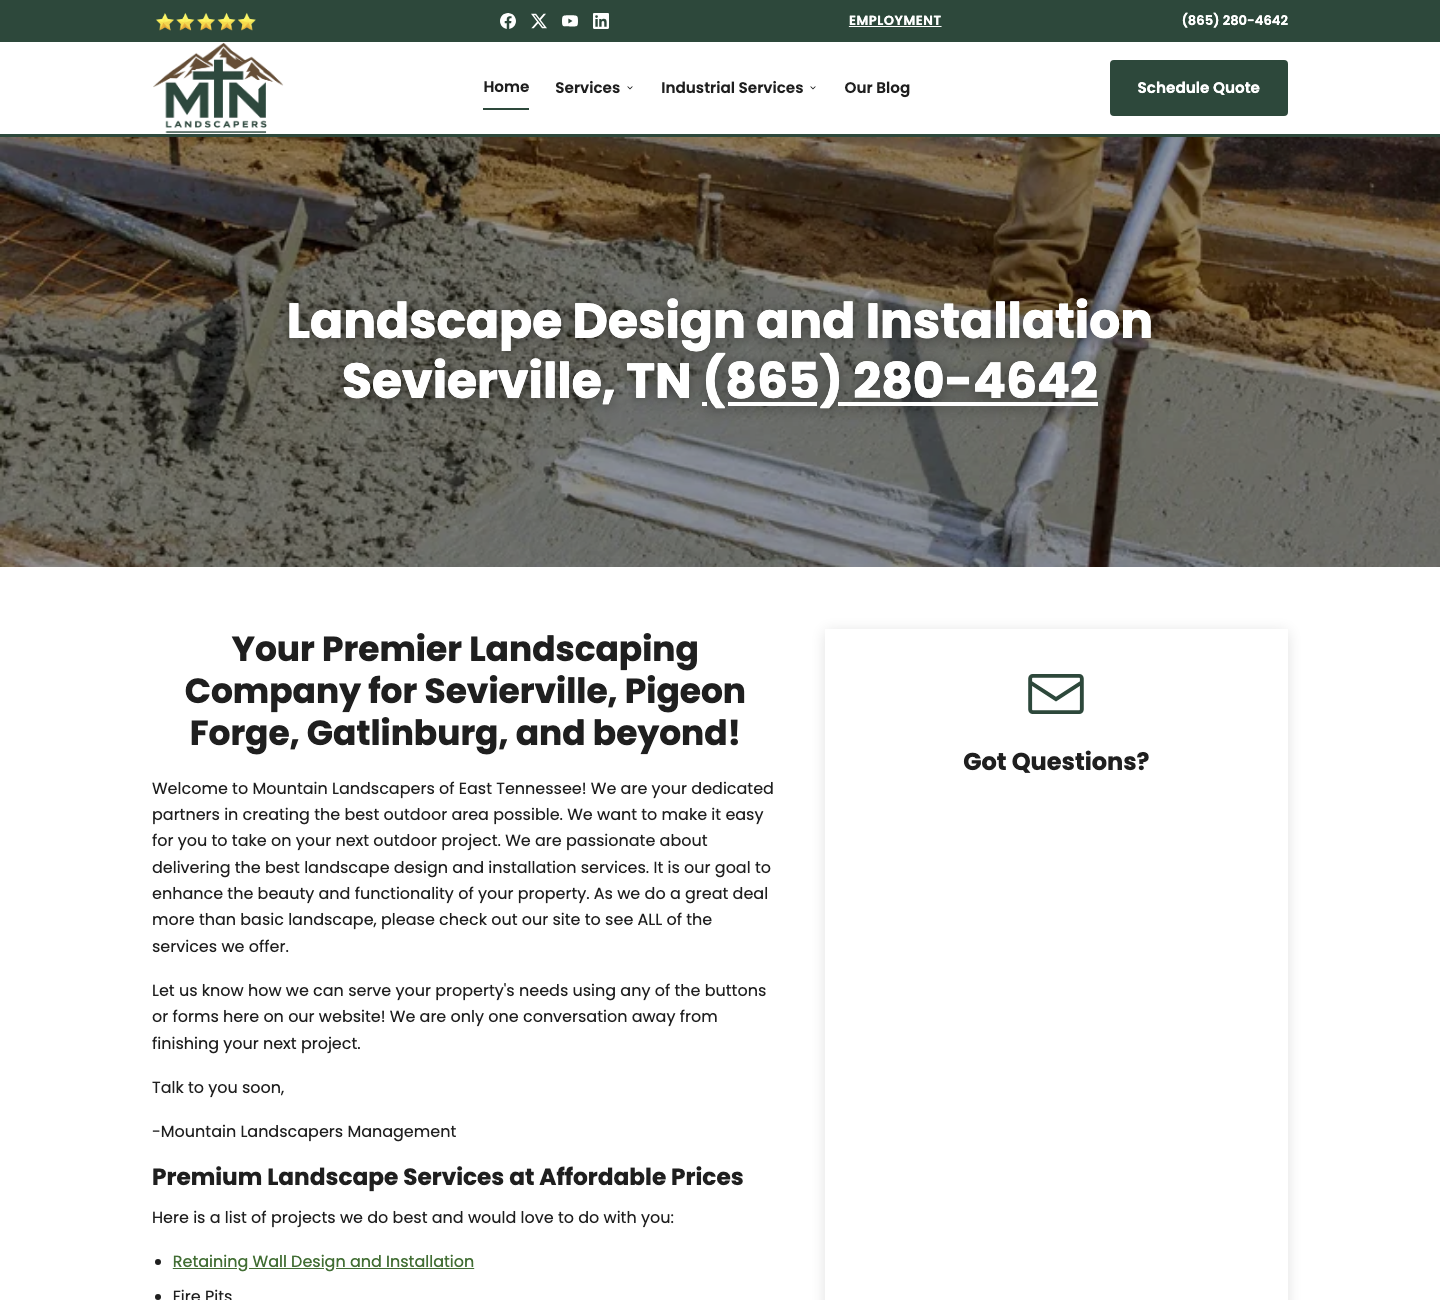
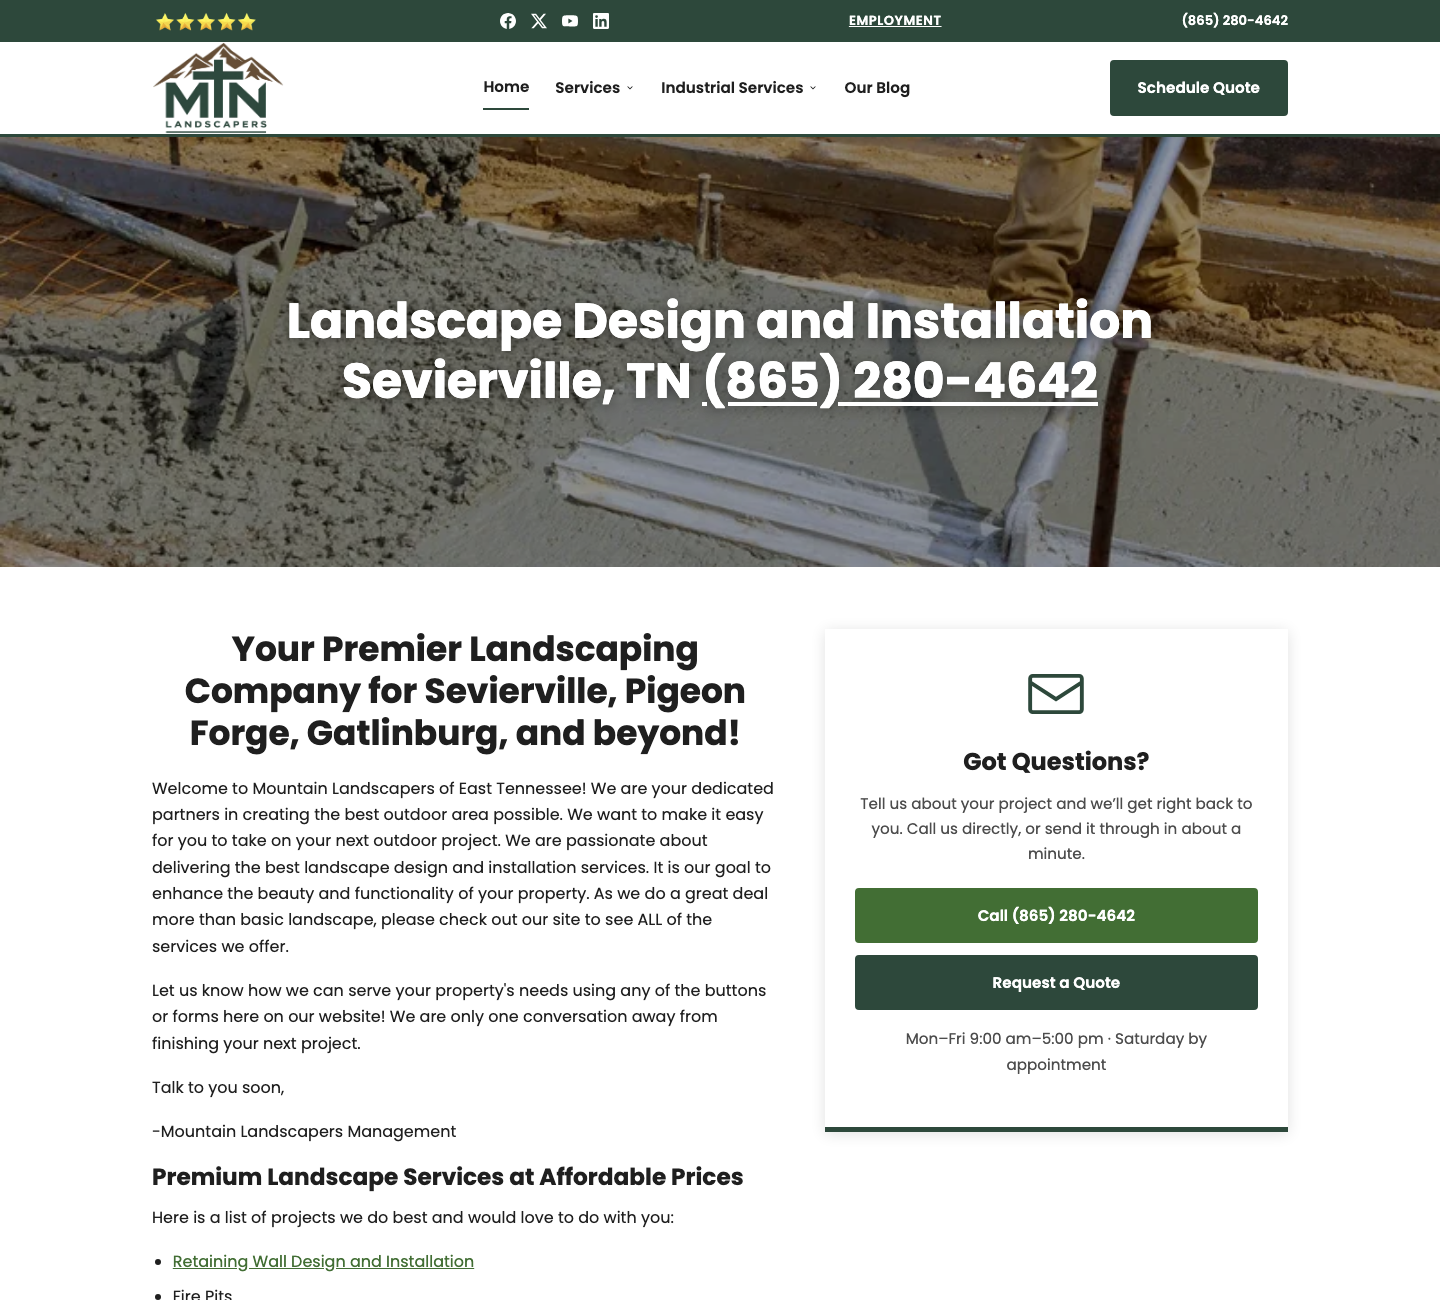
Document the Vercel setup and refresh screenshots
- record the live preview URL and that the domain still points at Duda
- note why the build settings are pinned in vercel.json
- flag that Deployment Protection makes branch previews login-only, which
  blocks the send-the-client-a-preview-link workflow until it's changed

Changed region(s): [[0.5938, 0.6154, 0.875, 0.8308], [0.5938, 0.8615, 0.875, 0.8923]]

diff --git a/CLIENT-HANDOFF.md b/CLIENT-HANDOFF.md
@@ -3,6 +3,12 @@
 **What this is:** mtnlandscapers.com rebuilt from scratch as fast, plain HTML,
 matching the current design and keeping everything that makes it rank today.
 
+**Live preview:** <https://mtnlandscapers.vercel.app>
+
+The real domain still points at the old Duda site — nothing has changed for
+customers yet. The link above is the rebuild, deployed and public, ready to
+look over before the domain is switched.
+
 ---
 
 ## The short version
@@ -105,12 +111,15 @@ Say the word if you want any of those gone too.
 
 ### Contact form
 
-The Coraline form is embedded on the contact page, the home page and every
-service and city page — 17 pages in all. It is **lazy-loaded**: the raw embed
-is a 1,695-pixel iframe plus an external script, which would be by far the
-heaviest thing on the page. Instead each page shows a styled placeholder and
+The Coraline form lives on **the contact page only**. It is **lazy-loaded**:
+the raw embed is a 1,695-pixel iframe plus an external script, which would be
+by far the heaviest thing on the page. The page shows a styled placeholder and
 swaps in the real form when the visitor scrolls near it or taps the button, so
 the speed gains from this rebuild survive. Leads land in Coraline either way.
+
+Every other page gets a **CTA card** in the same spot instead — a call button,
+a "Request a Quote" link through to the contact page, and the business hours.
+The conversion path is intact everywhere; the form itself just isn't repeated.
 
 ### Legal pages rewritten
 
@@ -179,7 +188,9 @@ is worth it, and the signed service agreement matters more than the website ToS.
 
 **At launch:**
 
-2. Deploy to Vercel and point mtnlandscapers.com at it.
+2. Point mtnlandscapers.com at Vercel. The project is already deployed and
+   live at <https://mtnlandscapers.vercel.app> — adding the domain in the
+   Vercel dashboard and updating DNS is all that's left.
 3. Paste the Google Search Console verification tag — there's a marked slot in
    `build.py`'s page template.
 4. Submit `sitemap.xml` in Search Console and Bing Webmaster Tools.
@@ -222,3 +233,33 @@ generated, so edit `content.json` (words), `pages.py` (titles) or
 
 Changes go on a branch, which gives a preview link to approve before anything
 touches the live site.
+
+
+---
+
+## Vercel notes
+
+The project (`salt-services/mtnlandscapers`) was still configured for the
+Next.js app that used to live in this repo, so every push after the rebuild
+ran `next build` and failed with *"Couldn't find any `pages` or `app`
+directory"*. It was restoring the old build cache each time, which is why it
+kept detecting Next.js even after the files were gone.
+
+Fixed in `vercel.json` rather than in the dashboard, so the setting travels
+with the code and can't drift:
+
+```json
+"framework": null,
+"buildCommand": "",
+"installCommand": "",
+"outputDirectory": "."
+```
+
+Builds now take about 4 seconds — there's nothing to compile.
+
+**One thing to know about preview links:** the project has Vercel's Deployment
+Protection turned on, so per-deployment and branch URLs require a Vercel login.
+The production alias (`mtnlandscapers.vercel.app`) is public, but a branch
+preview isn't — so the "push a branch, send the client the preview link"
+workflow in `README.md` won't work for a client until Deployment Protection is
+switched off for preview deployments, or a protection bypass is enabled.

diff --git a/README.md b/README.md
@@ -75,15 +75,22 @@ git push -u origin edits
 ```
 
 Pushing the branch gives you a Vercel preview URL — a private copy of the site
-with the change applied. Send it to the client for approval. Merging that
-branch into `main` publishes it.
+with the change applied. Merging that branch into `main` publishes it.
+
+**Heads up:** this project has Vercel Deployment Protection enabled, so preview
+URLs require a Vercel login. You can review them; a client can't, unless you
+turn protection off for preview deployments or enable a protection bypass.
 
 ## Publishing
 
-The site is static files. On Vercel: **New Project → import this repo →
-Framework Preset: Other → Deploy.** No settings to change. `vercel.json`
-already sets clean URLs, security headers, and long-lived caching for images
-and fonts.
+Already connected: pushing to `main` deploys to
+<https://mtnlandscapers.vercel.app> (project `salt-services/mtnlandscapers`).
+`vercel.json` carries the build settings, clean URLs, security headers, the
+301 for the retired tree-service URL, and long-lived caching for images and
+fonts. Builds take about 4 seconds.
+
+The custom domain is not attached yet — mtnlandscapers.com still serves the old
+Duda site.
 
 ## Two things to know before editing
 
@@ -99,12 +106,18 @@ was removed when that service was discontinued; it 301s to the home page via
 `vercel.json`. If another page is ever retired, add the redirect at the same
 time — a bare 404 throws away whatever authority the page had.
 
-**The contact form is a lazy-loaded Coraline embed.** Its IDs live in
-`site.config.json` under `coralineForm`; the loader is at the bottom of
-`js/main.js`. The iframe is injected only when the visitor scrolls near it or
+**The contact form is a lazy-loaded Coraline embed, on `/contact` only.** Its
+IDs live in `site.config.json` under `coralineForm`; the loader is at the bottom
+of `js/main.js`. The iframe is injected only when the visitor scrolls near it or
 taps the button, which keeps a 1,695px third-party iframe out of the initial
 page load. If the client's form ID ever changes, edit `site.config.json` and
-re-run `build.py` — nothing else needs touching.
+re-run `build.py` — nothing else needs touching. Every other page shows
+`cta_card()` from `build.py` instead: call button plus a link to `/contact`.
+
+**Build settings are pinned in `vercel.json`** (`framework: null`, empty build
+and install commands, output directory `.`) because the Vercel project was
+originally set up for a Next.js app. Leave those keys in place or the
+deployment will try to run `next build` again and fail.
 
 ## Before go-live
 
